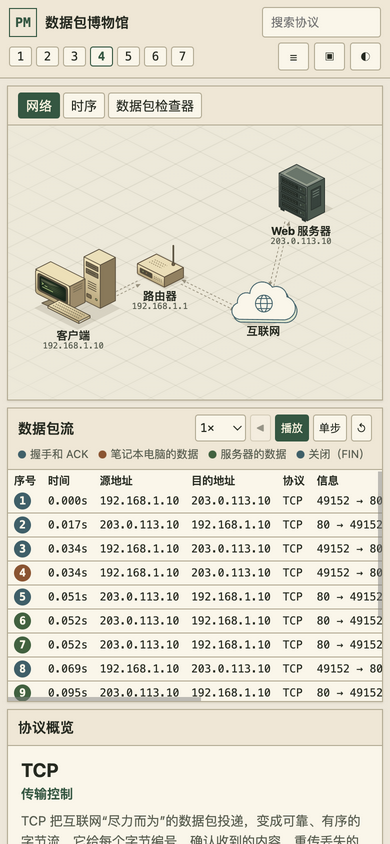
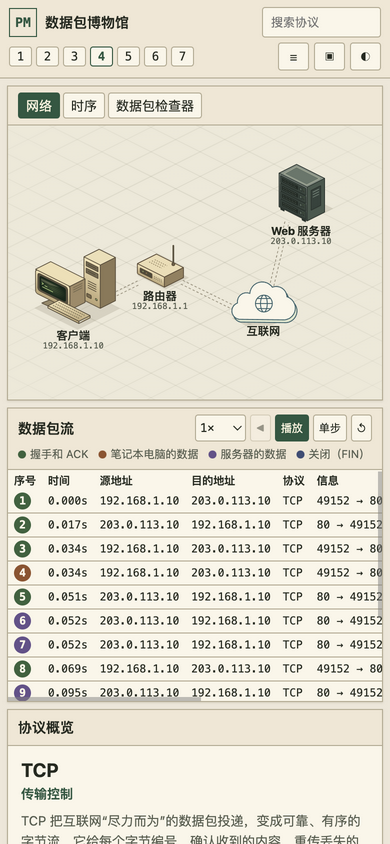
TCP 课程显示序列号、丢包与填充后帧长

Changed region(s): [[0.0308, 0.5853, 0.0923, 0.8318], [0.5231, 0.5237, 0.5538, 0.5545], [0.0308, 0.5237, 0.0615, 0.5545]]

diff --git a/src/lessons/tcp/frames.js b/src/lessons/tcp/frames.js
@@ -6,9 +6,10 @@ const reversePath = path.toReversed();
 const request = http({ startLine: 'GET / HTTP/1.1', headers: [['Host', 'www.example.com'], ['User-Agent', 'curl/8.9.1'], ['Accept', '*/*']] });
 // The reference leaves the response opaque; these placeholder bytes preserve segment lengths.
 const first = new Uint8Array(1460), second = new Uint8Array(1460).fill(1);
+const clientISN = 3412928760, serverISN = 673322873;
 const clientSyn = Uint8Array.of(2, 4, 5, 180, 1, 3, 3, 8, 1, 1, 4, 2);
 const serverSyn = Uint8Array.of(2, 4, 5, 180, 1, 1, 4, 2, 1, 3, 3, 7);
-const sack = concat(Uint8Array.of(1, 1, 5, 10), uint(1461, 4), uint(2921, 4));
+const sack = concat(Uint8Array.of(1, 1, 5, 10), uint(serverISN + 1461, 4), uint(serverISN + 2921, 4));
 const FIN = 0x01, SYN = 0x02, PSH = 0x08, ACK = 0x10;
 
 const segments = [
@@ -17,8 +18,8 @@ const segments = [
   ['0.034s', false, ACK,       1,    1, 'control', '[ACK] Seq=1 Ack=1',                        ['seq=1 ack=1']],
   ['0.034s', false, PSH|ACK,   1,    1, 'request', '[PSH, ACK] Seq=1 Ack=1 Len=78',           ['seq=1  len=78', 'GET / HTTP/1.1 …'], { payload: request, application: 'http' }],
   ['0.051s', true,  ACK,       1,   79, 'control', '[ACK] Seq=1 Ack=79',                       ['ack=79']],
-  ['0.052s', true,  ACK,       1,   79, 'response', '[ACK] Seq=1 Ack=79 Len=1460',             ['报文段 1 丢失', 'seq=1'], { payload: first, outcome: 'dropped' }],
-  ['0.052s', true,  PSH|ACK, 1461,  79, 'response', '[PSH, ACK] Seq=1461 Ack=79 Len=1460',    ['seq=1 和 seq=1461'], { payload: second, leadMs: 250 }],
+  ['0.052s', true,  ACK,       1,   79, 'response', '[ACK] Seq=1 Ack=79 Len=1460',             ['报文段 1 丢失', 'seq=1'], { payload: first, outcome: 'dropped', leadMs: 650 }],
+  ['0.052s', true,  PSH|ACK, 1461,  79, 'response', '[PSH, ACK] Seq=1461 Ack=79 Len=1460',    ['seq=1 和 seq=1461'], { payload: second, leadMs: 810 }],
   ['0.069s', false, ACK,      79,    1, 'control', '[ACK] Seq=79 Ack=1 SLE=1461 SRE=2921',     ['ack=1', 'sack：已有 1461–2920'], { options: sack }],
   ['0.095s', true,  ACK,       1,   79, 'response', '[TCP Retransmission] Seq=1 Ack=79 Len=1460', ['seq=1  len=1460', '只有缺失的报文段'], { payload: first }],
   ['0.112s', false, ACK,      79, 2921, 'control', '[ACK] Seq=79 Ack=2921',                    ['ack=2921']],
@@ -31,12 +32,12 @@ const segments = [
 export const frames = segments.map(([time, inbound, flags, seq, ack, category, summary, badge, { options, payload, ...presentation } = {}], i) => {
   const [src, dst] = inbound ? [server, client] : [client, server];
   const [srcPort, dstPort] = inbound ? [80, 49152] : [49152, 80];
+  const [isn, peerISN] = inbound ? [serverISN, clientISN] : [clientISN, serverISN];
   const [sourceMac, targetMac] = inbound ? ['00:00:5e:00:53:01', '00:00:5e:00:53:10'] : ['00:00:5e:00:53:10', '00:00:5e:00:53:01'];
   const window = flags & SYN ? 64240 : inbound ? 501 : 1026;
-  const transport = tcp({ src, dst, srcPort, dstPort, seq, ack, flags, window, options, payload });
-  // shortcut: unpadded frames, add the six link-layer padding bytes once the inspector supports them.
-  const bytes = ethernet({ src: sourceMac, dst: targetMac,
+  const transport = tcp({ src, dst, srcPort, dstPort, seq: isn + seq, ack: flags & ACK ? peerISN + ack : 0, flags, window, options, payload });
+  const bytes = ethernet({ src: sourceMac, dst: targetMac, pad: true,
     payload: ipv4({ src, dst, protocol: 6, id: 0x1c40 + i, ttl: inbound ? 52 : 128, payload: transport }) });
   return { id: `tcp-${i + 1}`, path: inbound ? reversePath : path, bytes, protocol: 'TCP', time,
-    summary: `${srcPort} → ${dstPort} ${summary}`, category, badge, ...presentation };
+    summary: `${srcPort} → ${dstPort} ${summary}`, category, badge, relativeTo: [isn, flags & ACK ? peerISN : null], ...presentation };
 });

diff --git a/src/lessons/tcp/index.js b/src/lessons/tcp/index.js
@@ -18,13 +18,14 @@ export default {
   meta: { id: 'tcp', title: 'TCP', subtitle: '传输控制', group: 1, order: 8, layer: 4 },
   overview, outro, nodes, links, frames, viewBox: [0, 0, 665, 420], sequenceNodes: ['client', 'web'],
   legend: {
-    control: { label: '握手和 ACK', tone: 'query' },
+    control: { label: '握手和 ACK', tone: 'reply' },
     request: { label: '笔记本电脑的数据', title: 'DATA', tone: 'referral' },
-    response: { label: '服务器的数据', title: 'DATA', tone: 'reply' },
-    finish: { label: '关闭（FIN）', title: 'FIN', tone: 'query' },
+    response: { label: '服务器的数据', title: 'DATA', tone: 'violet' },
+    finish: { label: '关闭（FIN）', title: 'FIN', tone: 'navy' },
   },
   steps: steps.map((step, i) => ({
     ...step, wide: true, ...(i === 0 ? { closeup: ['client'] } : {}),
     frames: frames.slice(cuts[i], cuts[i + 1]).map(frame => frame.id),
+    ...(i === 2 ? { parallel: [['tcp-6', 'tcp-7']], events: [{ node: 'internet', after: 'tcp-6', time: '0.052s', text: '报文段 1 丢失' }] } : {}),
   })),
 };
